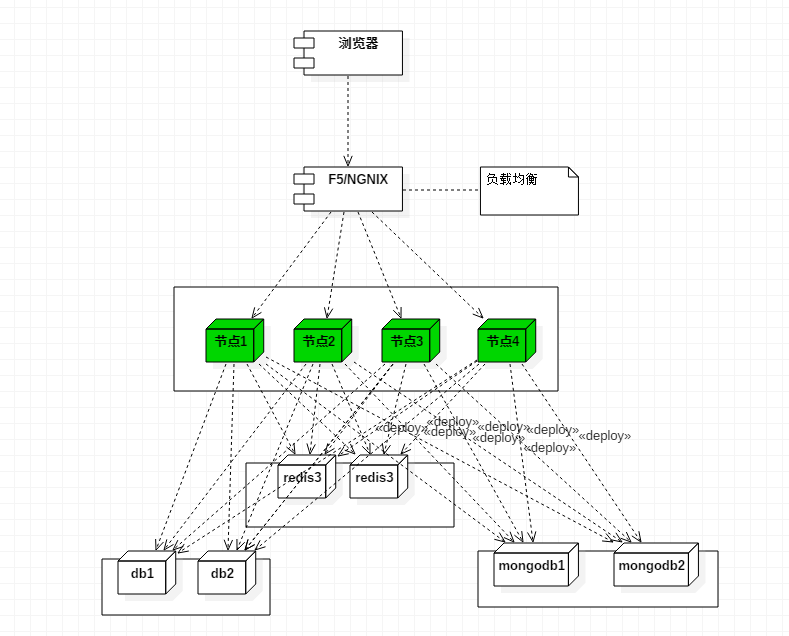
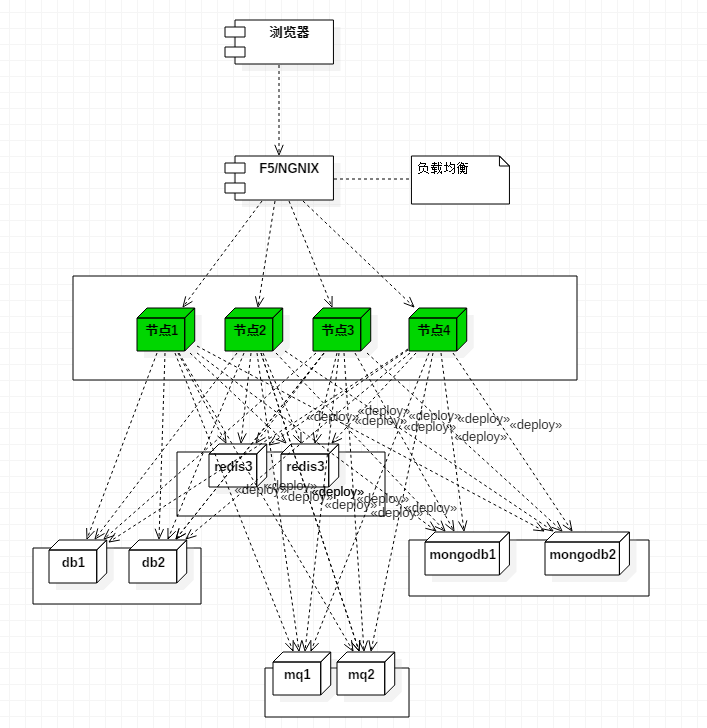
Updates jing-li-yi-3001-qi-ye-zhen-shi-de-ying-yong.md
Auto commit by GitBook Editor

Changed region(s): [[0.0311, 0.1792, 0.9335, 1.0], [0.3112, 0.0, 0.529, 0.1195], [0.5912, 0.2091, 0.7468, 0.2987]]

diff --git a/jing-li-yi-3001-qi-ye-zhen-shi-de-ying-yong.md b/jing-li-yi-3001-qi-ye-zhen-shi-de-ying-yong.md
@@ -1,18 +1,18 @@
-在未接触正式应用是你可能认为的应用是下面的样子的
+**在未接触正式应用是你可能认为的应用是下面的样子的**
 
 ![](/assets/单机结构.png)
 
-                                                                         Figure 1：单机模式下通常应用结果
-
-
+```
+                                                                     Figure 1：单机模式下通常应用结果
+```
 
 在你进入企业后，你会发现你做的软件实际运行大概是下面的样子的\(分布式集群，再也不是在一台机器上捣鼓了\)
 
+![](/assets/分布式结构.png)
 
+                                                                            Figure2：分布式集群模式
 
 在感受到这一变化之后，你是否应该会有些许的疑问呢?
-
-
 
 
 
